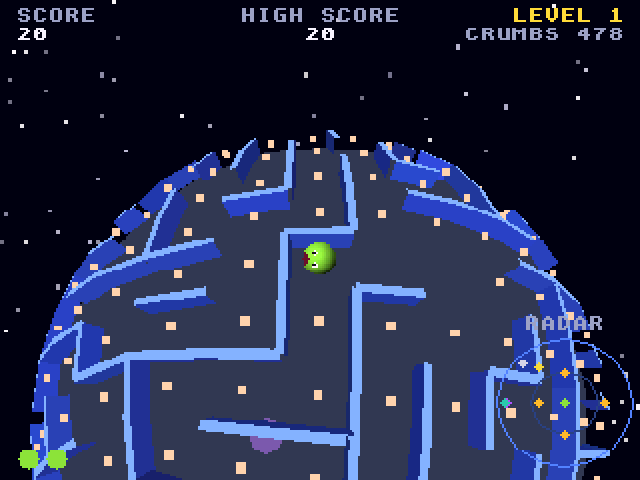
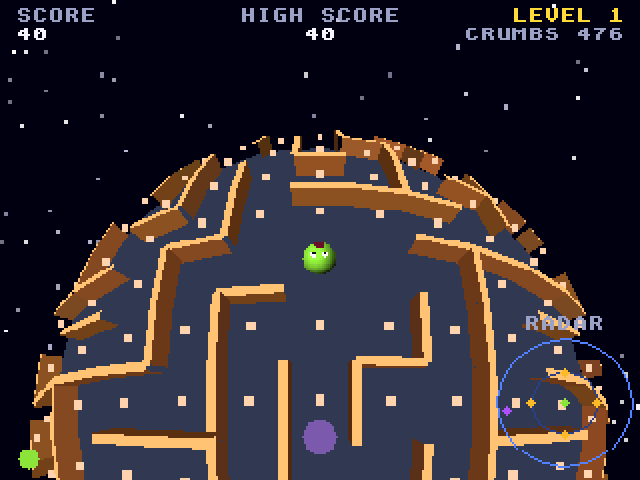
Planet Chomp: bronze maze walls, matching the Unity and 3DO versions

diff --git a/planet_chomp/render_cel.c b/planet_chomp/render_cel.c
@@ -229,8 +229,8 @@ void rd_frame(const Camera *cam, const unsigned char *crumb, const unsigned char
             it_c[it] = RGB15(235, 240, 255);
             it_c2[it] = RGB15(255, 255, 255);
         } else {
-            it_c[it] = shade(50, 80, 220, k);
-            it_c2[it] = RGB15(130, 180, 255);
+            it_c[it] = shade(158, 92, 41, k);
+            it_c2[it] = RGB15(255, 199, 115);
         }
         rd_stats_walls++;
     }
